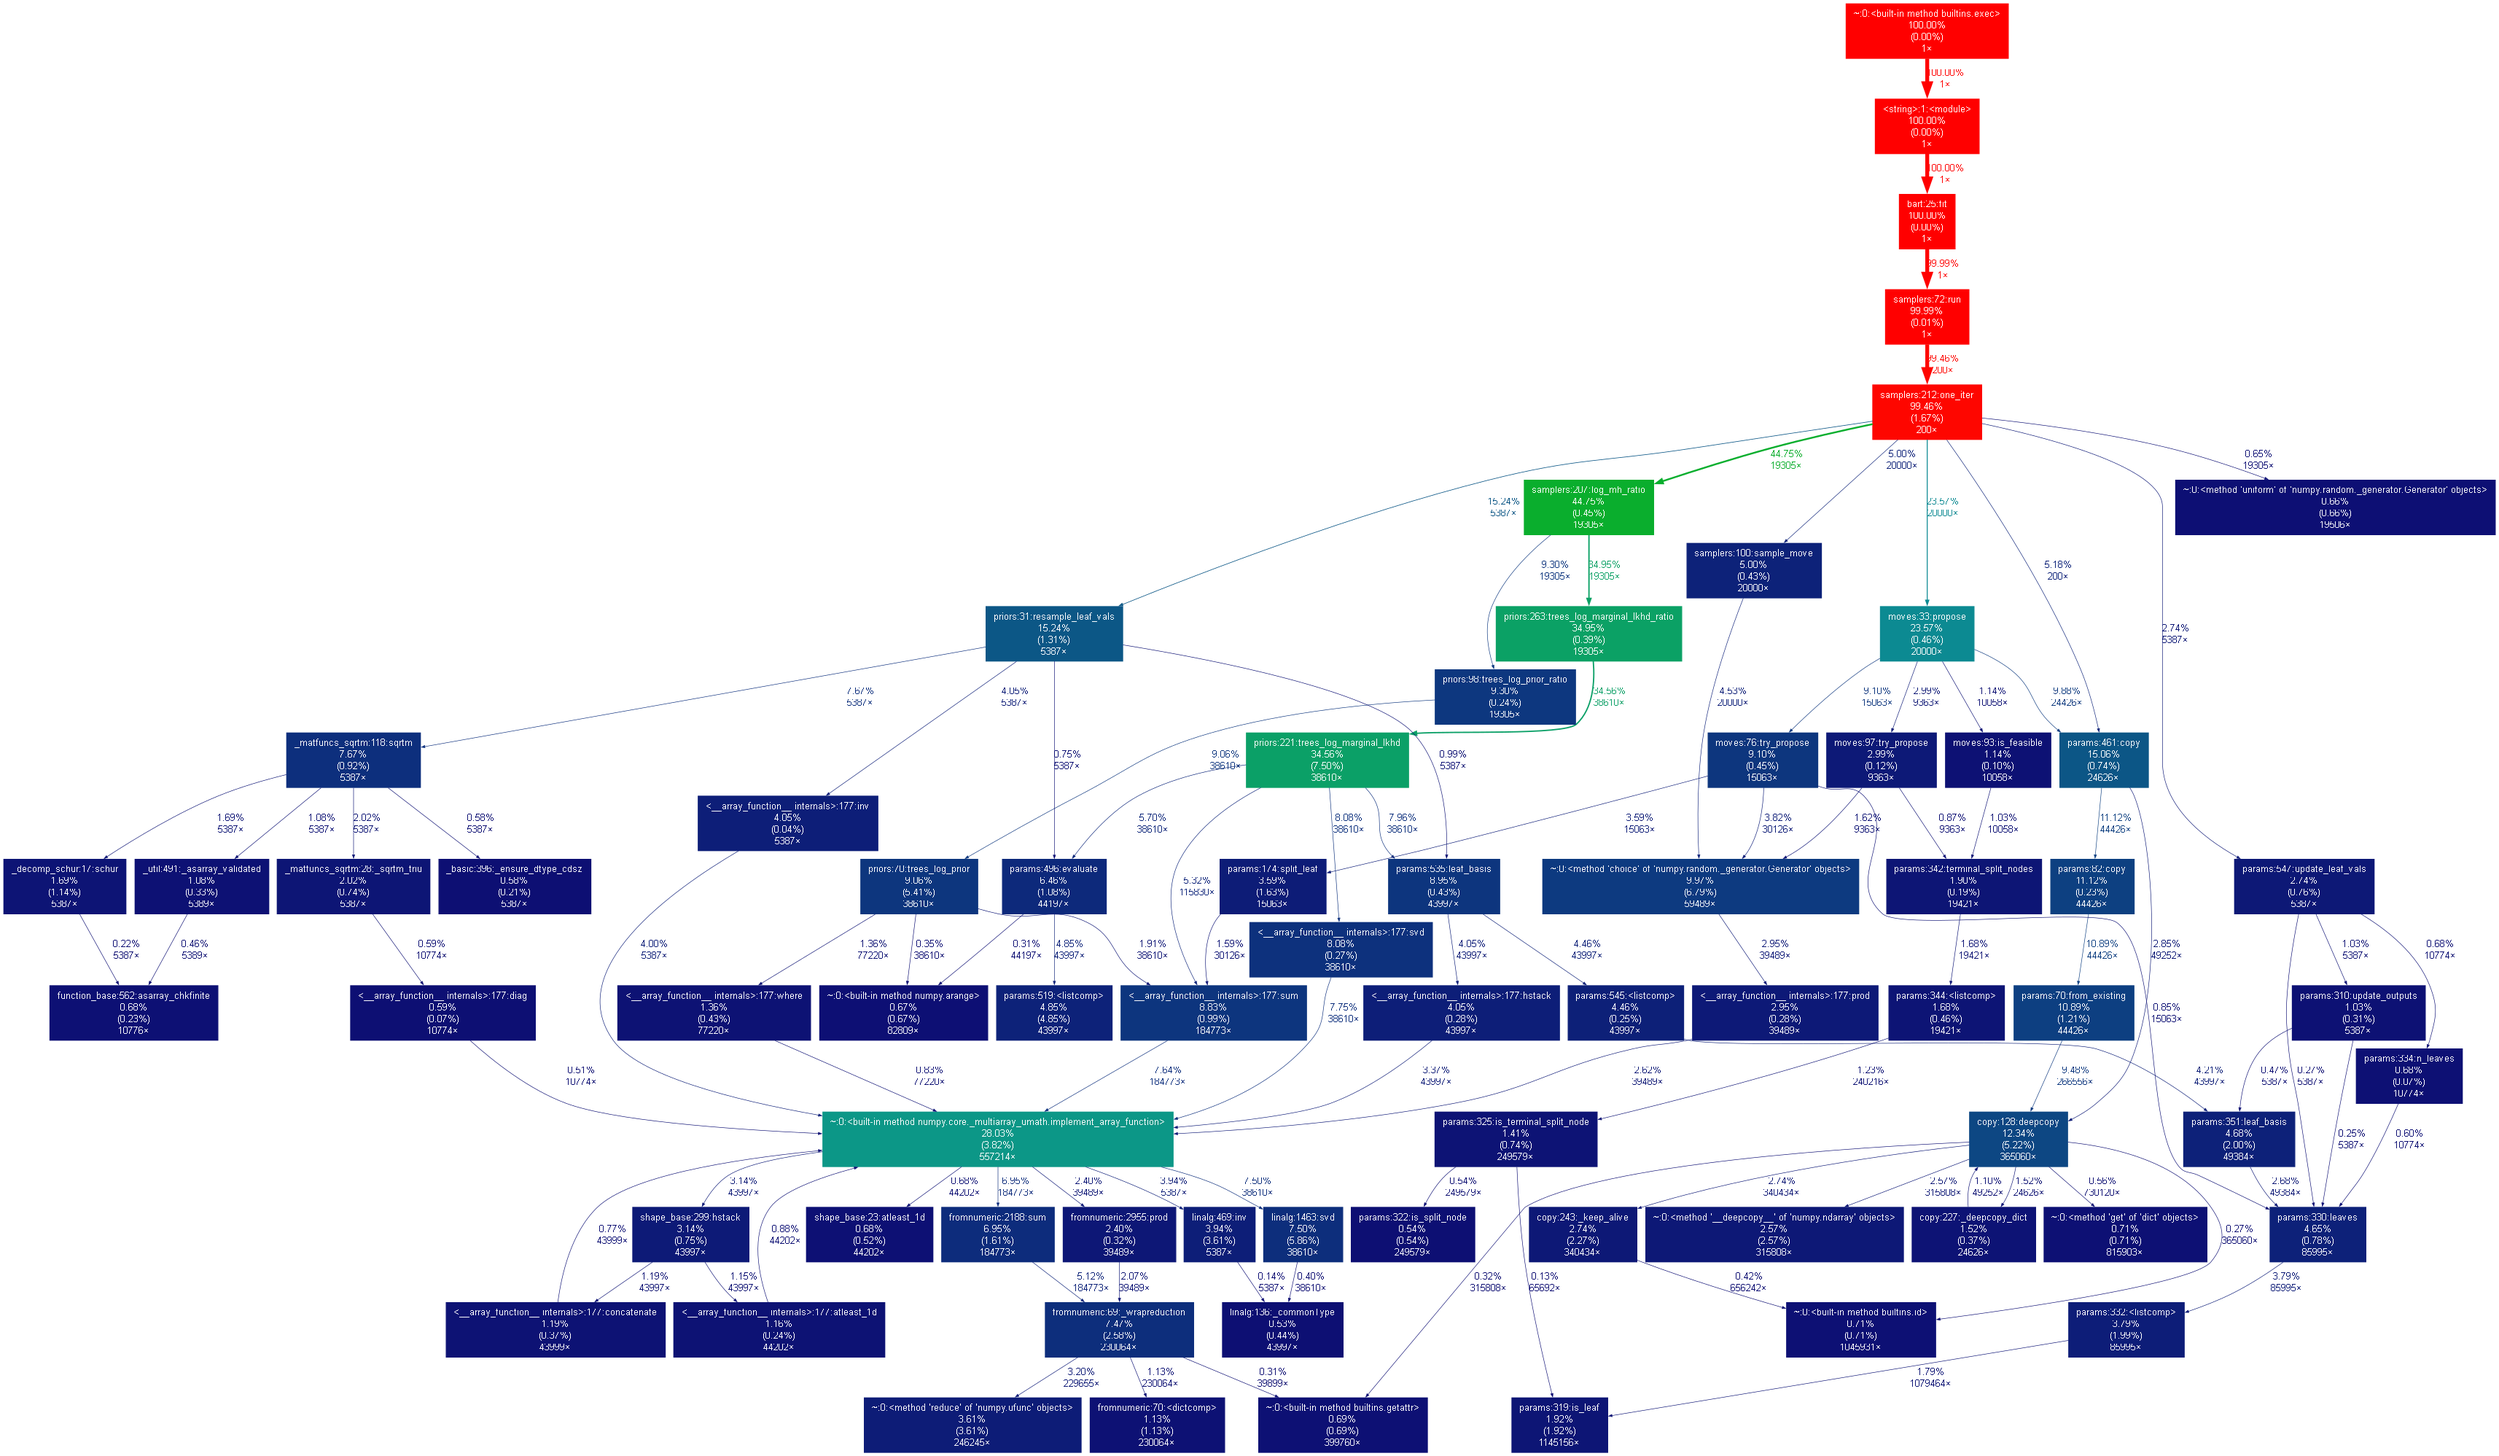
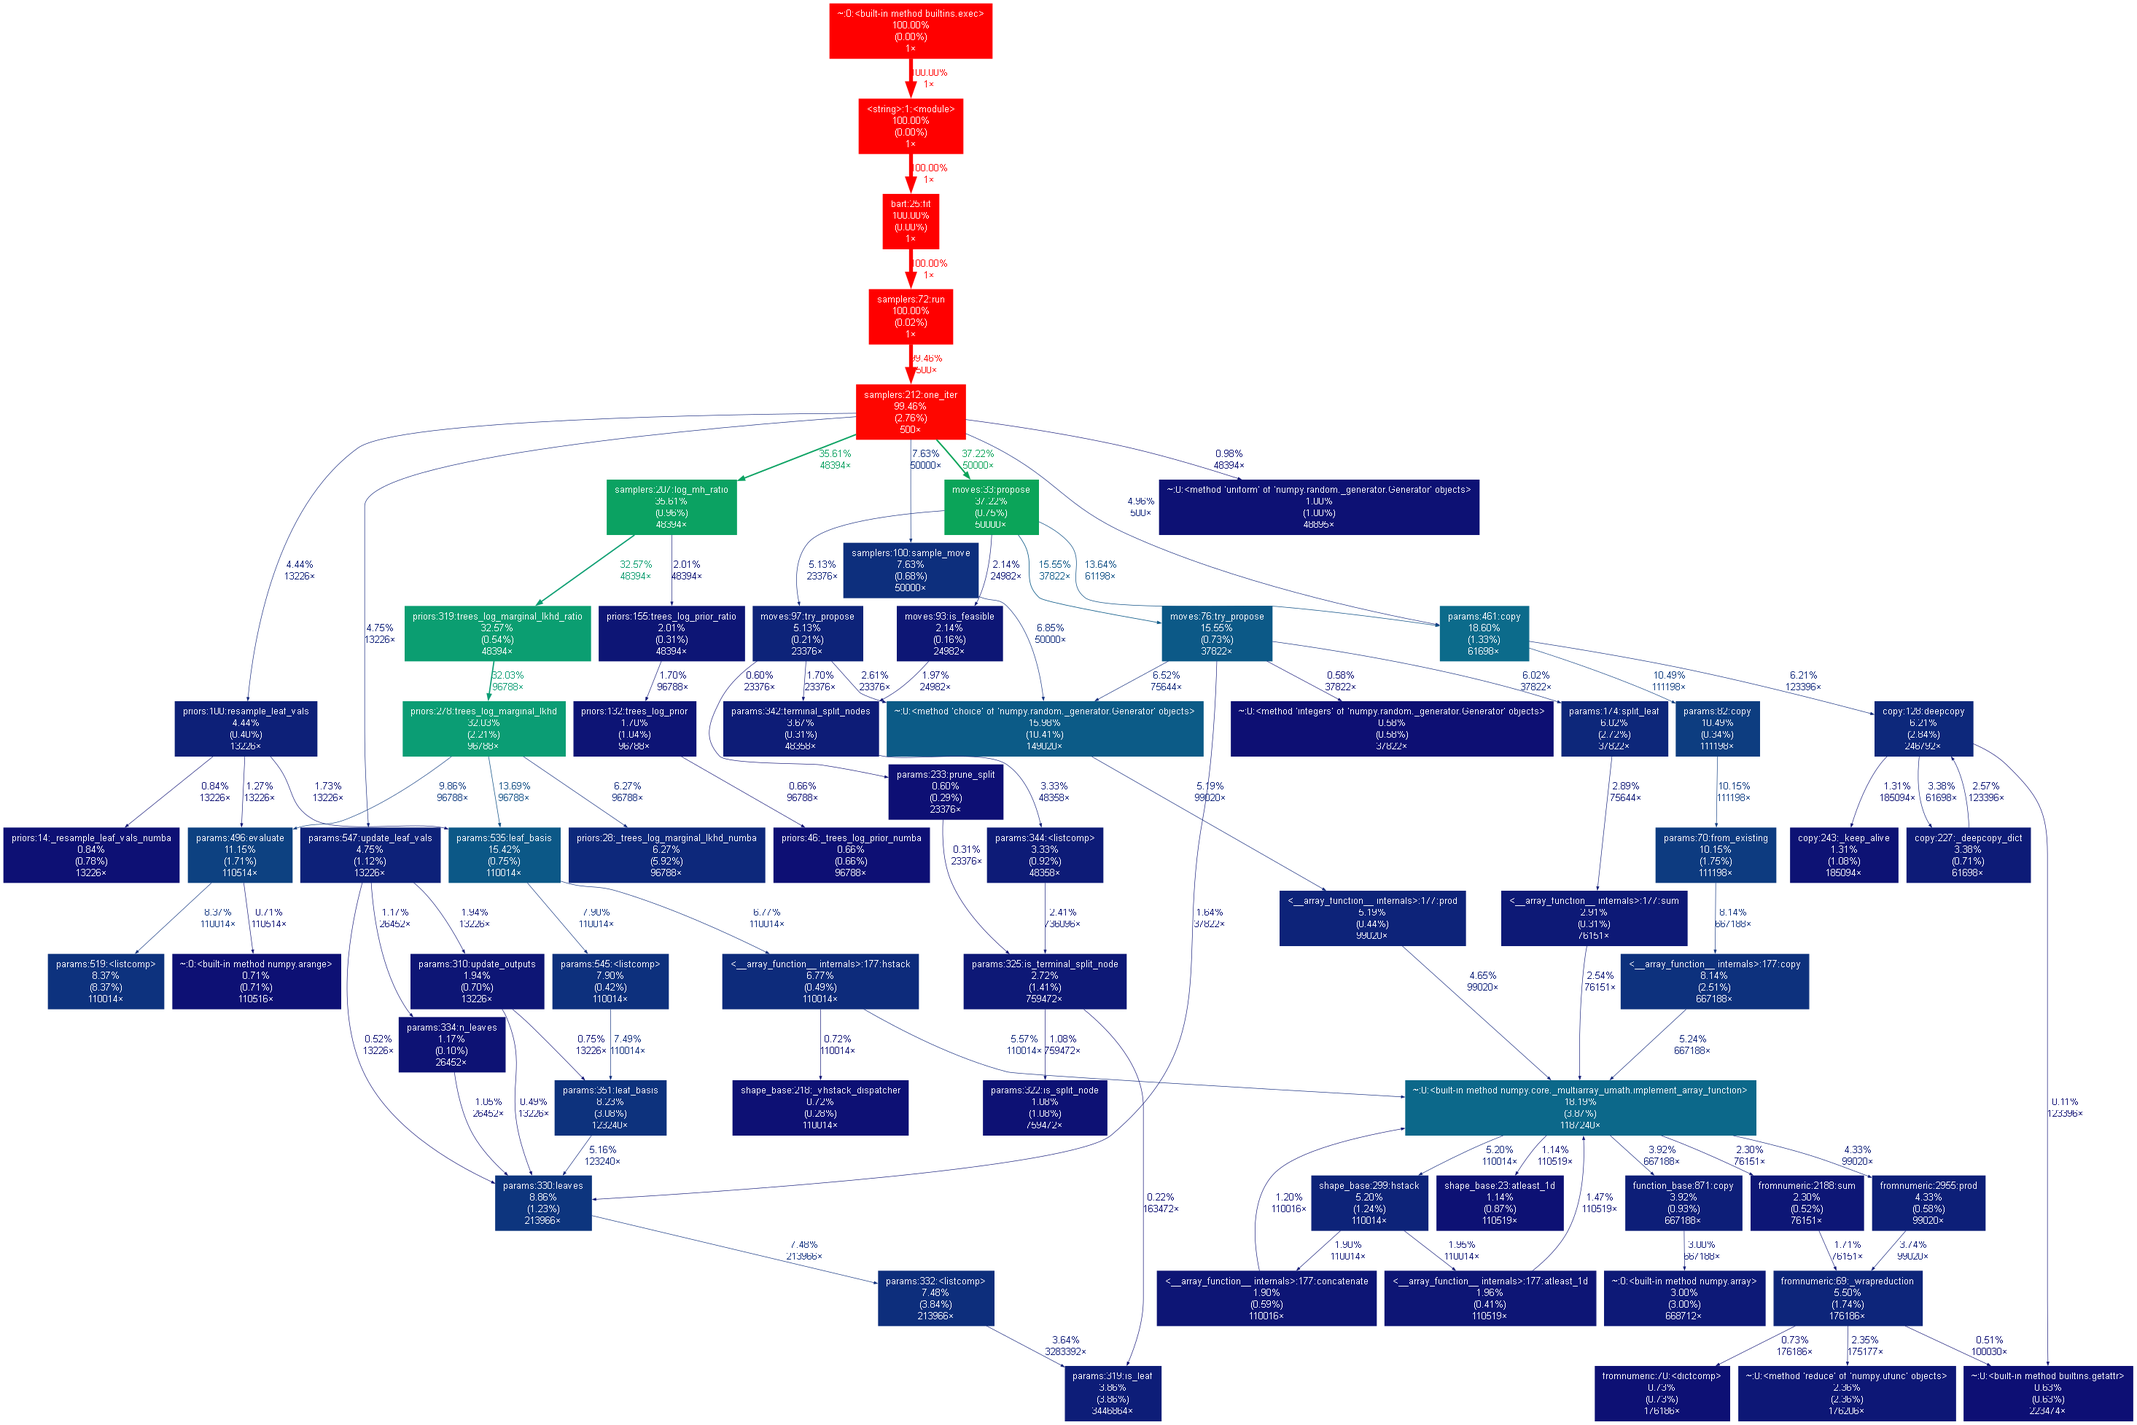
Optimize with parameter copying and Numba functions
Add Numba-optimized functions for leaf value resampling and log marginal likelihood calculations

diff --git a/bart_playground/priors.py b/bart_playground/priors.py
@@ -4,10 +4,80 @@ from scipy.stats import invgamma, chi2
 from scipy.linalg import sqrtm
 from scipy.optimize import minimize_scalar
 from sklearn.linear_model import LinearRegression
+from numba import njit, jit
 
 from .params import Tree, Parameters
 from .moves import Move
 from .util import Dataset
+
+# Standalone Numba-optimized functions
+@njit
+def _resample_leaf_vals_numba(leaf_basis, residuals, eps_sigma2, f_sigma2, random_normal_p):
+    """
+    Numba-optimized function to resample leaf values.
+    """
+    p = leaf_basis.shape[1]
+    # Explicitly convert boolean array to float64
+    num_lbs = leaf_basis.astype(np.float64)
+    post_cov = np.linalg.inv(num_lbs.T @ num_lbs / eps_sigma2 + np.eye(p) / f_sigma2)
+    post_mean = post_cov @ num_lbs.T @ residuals / eps_sigma2
+    
+    leaf_params_new = np.sqrt(np.diag(post_cov)) * random_normal_p + post_mean
+    return leaf_params_new
+
+@njit
+def _trees_log_marginal_lkhd_numba(leaf_basis, resids, eps_sigma2, f_sigma2):
+    """
+    Numba-optimized function to calculate log marginal likelihood.
+    """
+    # Explicitly convert boolean array to float64
+    leaf_basis_float = leaf_basis.astype(np.float64)
+    
+    # Now use the float64 array with SVD
+    U, S, _ = np.linalg.svd(leaf_basis_float, full_matrices=False)
+    noise_ratio = eps_sigma2 / f_sigma2
+    logdet = np.sum(np.log(S ** 2 / noise_ratio + 1))
+    resid_u_coefs = U.T @ resids
+    resids_u = U @ resid_u_coefs
+    ls_resids = np.sum((resids - resids_u) ** 2)
+    ridge_bias = np.sum(resid_u_coefs ** 2 / (S ** 2 / noise_ratio + 1))
+    return - (logdet + (ls_resids + ridge_bias) / eps_sigma2) / 2
+
+@njit
+def _trees_log_prior_numba(tree_vars, alpha, beta):
+    """
+    Numba-optimized function to calculate log prior probability of a tree.
+    
+    Parameters:
+    -----------
+    tree_vars : numpy.ndarray
+        An array of variables used for splitting at each node.
+    alpha : float
+        Alpha parameter for the tree prior.
+    beta : float
+        Beta parameter for the tree prior.
+        
+    Returns:
+    --------
+    float
+        The log prior probability of the tree.
+    """
+    # Calculate depth for each node
+    d = np.ceil(np.log2(np.arange(len(tree_vars)) + 2)) - 1
+    # Calculate log probability of split
+    log_p_split = np.log(alpha) - beta * np.log(1 + d)
+    
+    # Use loops instead of vectorized operations for better performance with Numba
+    #   and better readability
+    log_prior = 0.0
+    for i in range(len(tree_vars)):
+        if tree_vars[i] == -1:  # Leaf node
+            log_prior += np.log(1 - np.exp(log_p_split[i]))
+        elif tree_vars[i] != -2:  # Split node (not leaf and not empty)
+            log_prior += log_p_split[i]
+    
+    return log_prior
+
 class TreesPrior:
     """
     Prior for tree structure and leaf values.
@@ -50,21 +120,14 @@ class TreesPrior:
         """
         residuals = data_y - bart_params.evaluate(all_except=tree_ids)
         leaf_basis = bart_params.leaf_basis(tree_ids)
-        # Assuming tree_ids only contain one tree, 
-        # leaf_basis is an n×p binary (0–1) indicator matrix, 
-        # with each row having exactly one 1 (leaf assignment).
-        # num_lbs.T @ num_lbs yields a diagonal matrix with counts per leaf
-        # Similarly, num_lbs.T @ residuals sums residuals per leaf
-
-        p = leaf_basis.shape[1]
-        # leaf_basis should be a numerical type to avoid loss of information
-        num_lbs = leaf_basis.astype(np.float64)
-        post_cov = np.linalg.inv(num_lbs.T @ num_lbs / 
-                                 bart_params.global_params["eps_sigma2"] +
-                                 np.eye(p) / self.f_sigma2)
-        post_mean = post_cov @ num_lbs.T @ residuals / \
-            bart_params.global_params["eps_sigma2"]
-        leaf_params_new = sqrtm(post_cov) @ self.generator.standard_normal(p) + post_mean
+        
+        leaf_params_new = _resample_leaf_vals_numba(
+            leaf_basis, 
+            residuals, 
+            eps_sigma2 = bart_params.global_params["eps_sigma2"], 
+            f_sigma2 = self.f_sigma2,
+            random_normal_p = self.generator.standard_normal(size=leaf_basis.shape[1])
+        )
         return leaf_params_new
 
     def trees_log_prior(self, bart_params : Parameters, tree_ids):
@@ -87,12 +150,7 @@ class TreesPrior:
         log_prior = 0
         for tree_id in tree_ids:
             tree = bart_params.trees[tree_id]
-            d = np.ceil(np.log2(np.arange(len(tree.vars)) + 2)) - 1
-            log_p_split = np.log(self.alpha) - self.beta * np.log(1 + d)
-            log_probs = np.where(tree.vars == -1, np.log(1 - np.exp(log_p_split)), 
-                                 log_p_split)
-            is_non_empty = np.where(tree.vars != -2)[0]
-            log_prior += np.sum(log_probs[is_non_empty])
+            log_prior += _trees_log_prior_numba(tree.vars, self.alpha, self.beta)
         return log_prior
     
     def trees_log_prior_ratio(self, move : Move):
@@ -250,15 +308,14 @@ class BARTLikelihood:
         """
         resids = data_y - bart_params.evaluate(all_except=tree_ids)
         leaf_basis = bart_params.leaf_basis(tree_ids)
-        U, S, _ = np.linalg.svd(leaf_basis, full_matrices=False) # Fix shape issue
-        noise_ratio = bart_params.global_params["eps_sigma2"] / self.f_sigma2
-        logdet = np.sum(np.log(S ** 2 / noise_ratio + 1))
-        resid_u_coefs = U.T @ resids
-        resids_u = U @ resid_u_coefs
-        ls_resids = np.sum((resids - resids_u) ** 2)
-        ridge_bias = np.sum(resid_u_coefs ** 2 / (S ** 2 / noise_ratio + 1))
-        return - (logdet + (ls_resids + ridge_bias) / 
-                  bart_params.global_params["eps_sigma2"]) / 2
+        
+        # Use the standalone numba function instead
+        return _trees_log_marginal_lkhd_numba(
+            leaf_basis, 
+            resids, 
+            bart_params.global_params["eps_sigma2"], 
+            self.f_sigma2
+        )
 
     def trees_log_marginal_lkhd_ratio(self, move : Move, data_y, marginalize: bool=False):
         """

diff --git a/bart_playground/params.py b/bart_playground/params.py
@@ -71,12 +71,12 @@ class Tree:
     def from_existing(cls, other: "Tree"):
         return cls(
             other.dataX,
-            copy.deepcopy(other.vars),
-            copy.deepcopy(other.thresholds),
-            copy.deepcopy(other.leaf_vals),
-            copy.deepcopy(other.n),
-            copy.deepcopy(other.node_indicators),
-            copy.deepcopy(other.evals)
+            np.copy(other.vars),
+            np.copy(other.thresholds),
+            np.copy(other.leaf_vals),
+            np.copy(other.n),
+            np.copy(other.node_indicators),
+            np.copy(other.evals)
         )
 
     def copy(self):
@@ -432,14 +432,14 @@ class Parameters:
     """
     Represents the parameters of the BART model.
     """
-    def __init__(self, trees: list, global_params, cache=None):
+    def __init__(self, trees: list, global_params, cache : Optional[float]=None):
         """
         Initializes the parameters for the model.
 
         Parameters:
         - trees (list): A list of trees used in the model.
         - global_params (dict): Global parameters for the model.
-        - data (Dataset): The dataset to be used.
+        - cache (float, optional): Cached evaluation results for the trees.
 
         Attributes:
         - data (Dataset): The dataset to be used.
